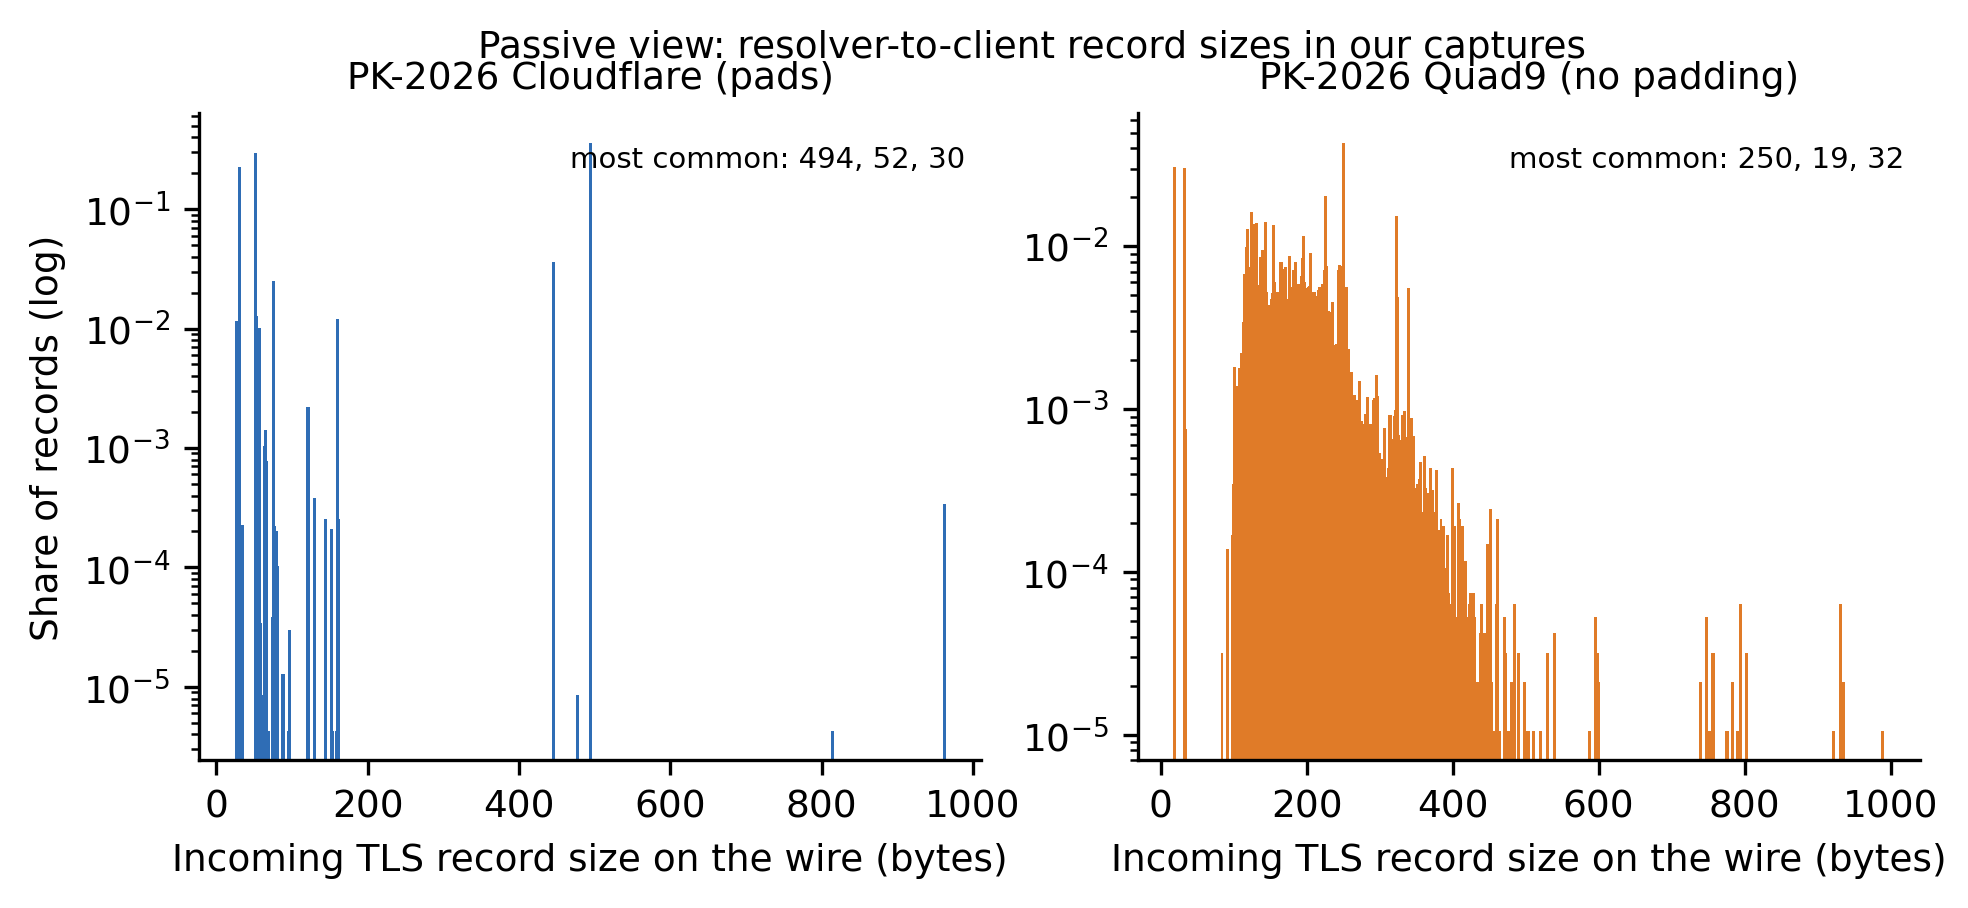
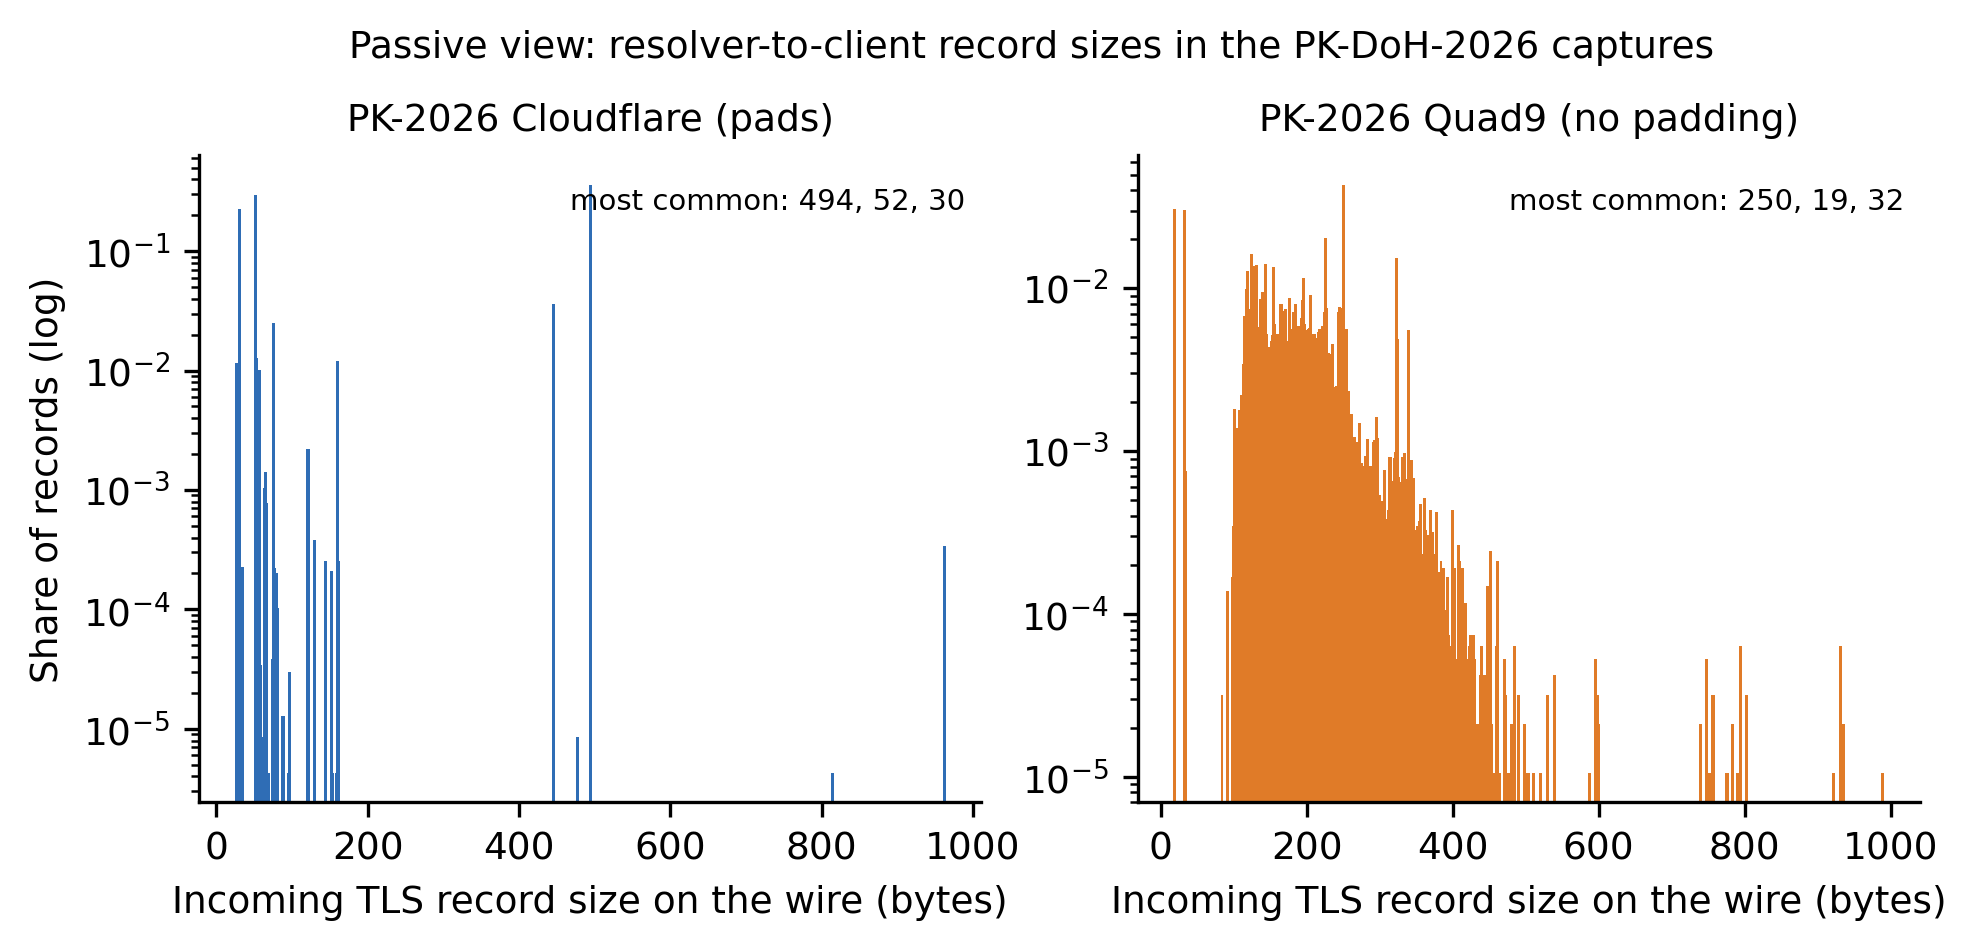
Fit Table 1 to the margin; fix overlapping title in the wire-histogram figure

diff --git a/paper/main.tex b/paper/main.tex
@@ -66,8 +66,8 @@ The rest of the paper is organised as follows. Section~\ref{sec:related} reviews
 
 \begin{table}[t]
 \caption{Coverage of key related work (\checkmark: measured, not only discussed).}\label{tab:coverage}
-\scriptsize\setlength{\tabcolsep}{3pt}
-\begin{tabular*}{\textwidth}{@{\extracolsep\fill}L{0.20\textwidth}C{0.07\textwidth}C{0.09\textwidth}C{0.09\textwidth}C{0.08\textwidth}C{0.10\textwidth}C{0.09\textwidth}C{0.08\textwidth}@{}}
+\scriptsize\setlength{\tabcolsep}{2pt}
+\begin{tabular*}{\textwidth}{@{\extracolsep\fill}L{0.18\textwidth}C{0.07\textwidth}C{0.09\textwidth}C{0.09\textwidth}C{0.08\textwidth}C{0.10\textwidth}C{0.09\textwidth}C{0.09\textwidth}@{}}
 \toprule
 Study & DoH/2 & Newer transport & Outside US/EU & Time or era & Padding as deployed & Repro\-duction & Variance \\
 \midrule

diff --git a/code/figures.py b/code/figures.py
@@ -93,7 +93,7 @@ def fig_wire_hist():
         top = xs[np.argsort(-ys)][:3]
         ax.text(0.98, 0.95, "most common: " + ", ".join(map(str, top)), transform=ax.transAxes, ha="right", va="top", fontsize=7)
     axes[0].set_ylabel("Share of records (log)")
-    fig.suptitle("Passive view: resolver-to-client record sizes in our captures", fontsize=9)
+    fig.suptitle("Passive view: resolver-to-client record sizes in the PK-DoH-2026 captures", fontsize=9, y=1.03)
     save(fig, "fig4_wire_histograms.png")
 
 
